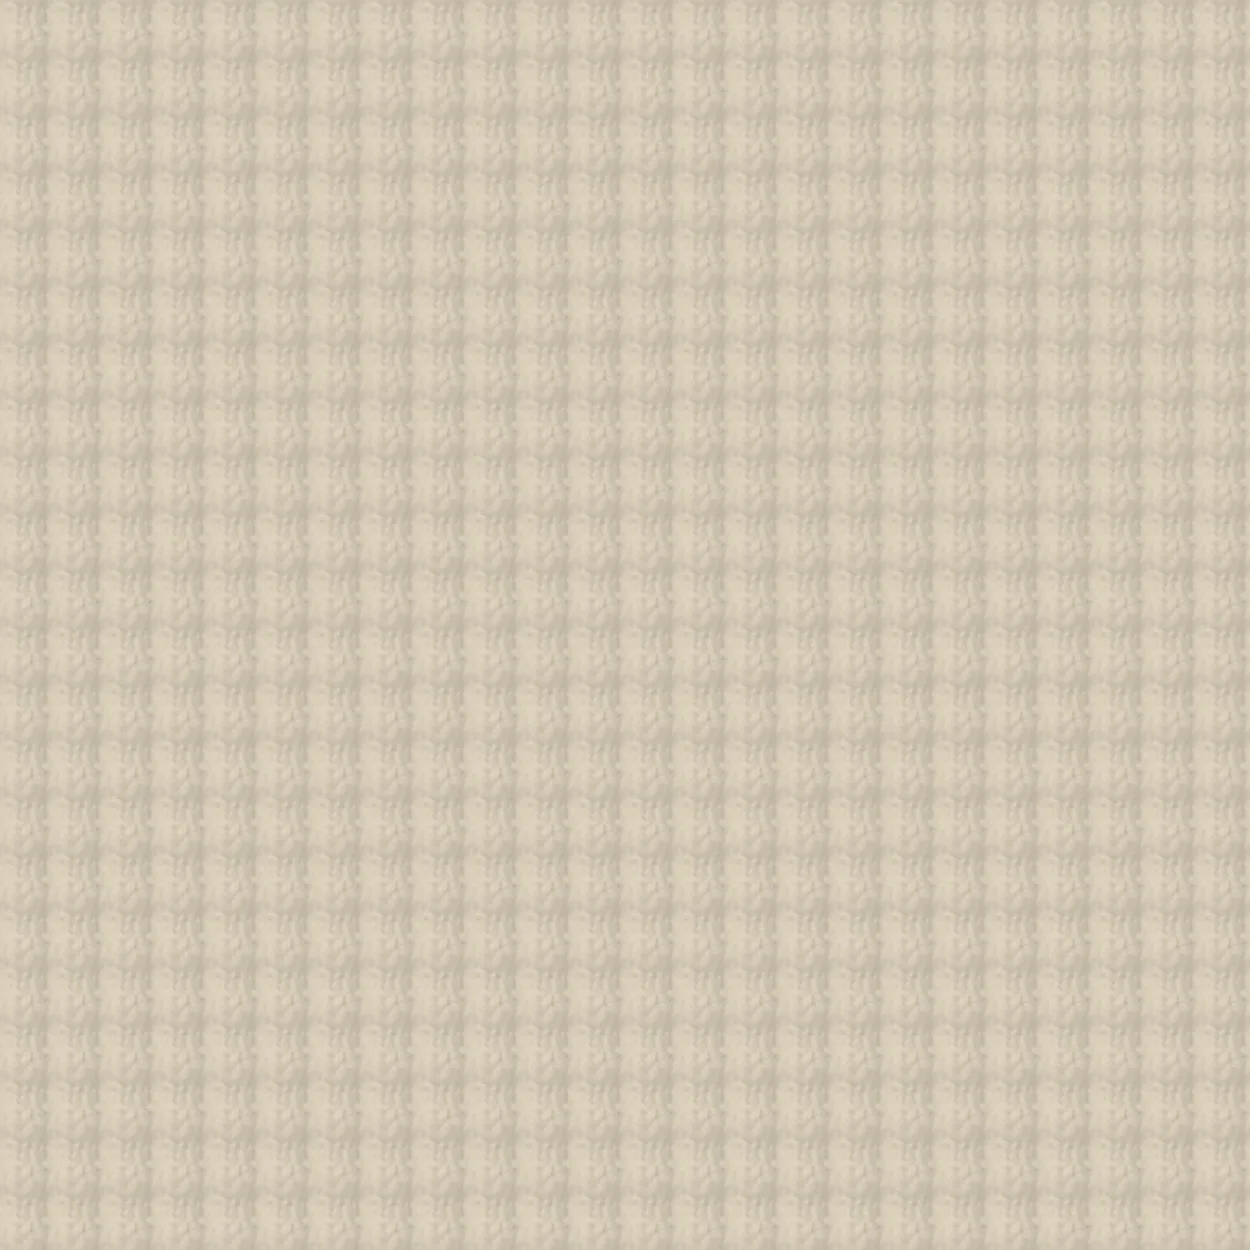
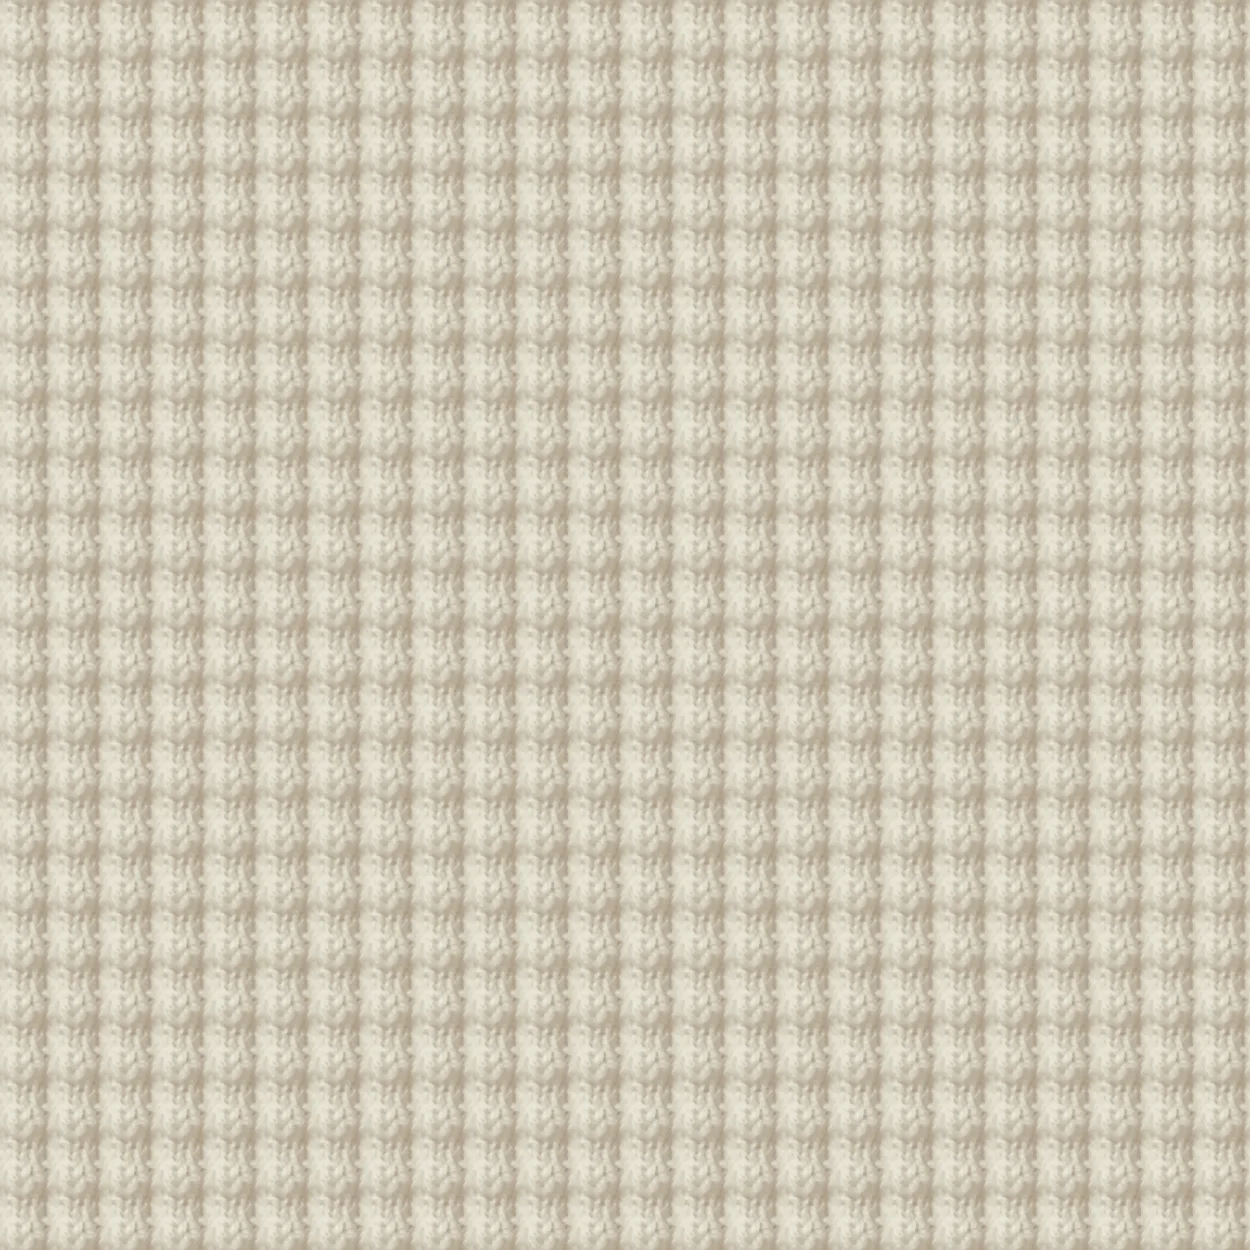
Little Love Lavande with lane-fitted knit; Codex Cream colourway

diff --git a/threadwork.js b/threadwork.js
@@ -61,10 +61,10 @@ SHADOW.innerHTML='<style>'+CSS+'</style>'+HTML;
       // Popcorn (baby + adult). Moon Stone has no photo yet and falls back to the Sawa knit by name.
       { name:'Pink Quartz', hex:'#e9a8b2', texture:ASSETS+'fabrics/popcorn-pink-quartz.webp', lift:0, pure:true, scale:.55, line:'popcorn' }, { name:'Henna', hex:'#c69778', texture:ASSETS+'fabrics/popcorn-henna.webp', lift:0, pure:true, scale:.55, line:'popcorn' },
       { name:'Sky Blue', hex:'#90a2bb', texture:ASSETS+'fabrics/popcorn-sky-blue.webp', lift:0, pure:true, scale:.55, line:'popcorn' }, { name:'Citron', hex:'#e7df96', texture:ASSETS+'fabrics/popcorn-citron.webp', lift:0, pure:true, scale:.55, line:'popcorn' },
-      { name:'Cream', hex:'#d1c7b2', texture:ASSETS+'fabrics/popcorn-cream.webp', lift:0, pure:true, scale:.55, line:'popcorn' }, { name:'Moon Stone', hex:'#aba8a7', aka:['Moonstone'], texture:ASSETS+'fabrics/popcorn-knit.webp', neutral:true, lift:-.35, marl:.2, scale:.45, line:'popcorn' },
+      { name:'Cream', hex:'#cec7b5', texture:ASSETS+'fabrics/popcorn-cream.webp', lift:0, pure:true, scale:.55, line:'popcorn' }, { name:'Moon Stone', hex:'#aba8a7', aka:['Moonstone'], texture:ASSETS+'fabrics/popcorn-knit.webp', neutral:true, lift:-.35, marl:.2, scale:.45, line:'popcorn' },
       // Little Love cashmere + the Cashmere Cloud gift sets (same knit). 'Peony Pink' is the gift set's name for Peony.
       { name:'Butter Cream', hex:'#b7a698', image:ASSETS+'fabrics/cashmere-butter-cream.jpg', texture:ASSETS+'fabrics/cashmere-butter-cream.jpg', photo:true, scale:.5, line:'cashmere' }, { name:'Cloud', hex:'#c6beb2', image:ASSETS+'fabrics/cashmere-cloud.jpg', texture:ASSETS+'fabrics/cashmere-cloud.jpg', photo:true, scale:.5, line:'cashmere' },
-      { name:'Hydrangea', hex:'#b2c0ca', image:ASSETS+'fabrics/cashmere-hydrangea.jpg', texture:ASSETS+'fabrics/cashmere-hydrangea.jpg', photo:true, scale:.5, line:'cashmere' }, { name:'Lavande', hex:'#d7bada', image:ASSETS+'fabrics/cashmere-lavande.jpg', texture:ASSETS+'fabrics/cashmere-lavande.jpg', photo:true, scale:.5, line:'cashmere' },
+      { name:'Hydrangea', hex:'#b2c0ca', image:ASSETS+'fabrics/cashmere-hydrangea.jpg', texture:ASSETS+'fabrics/cashmere-hydrangea.jpg', photo:true, scale:.5, line:'cashmere' }, { name:'Lavande', hex:'#d5b9d9', texture:ASSETS+'fabrics/littlelove-lavande.webp', pure:true, lift:0, lane:{pitch:208.333,centre:104.167}, scale:1, line:'cashmere' },
       { name:'Peony', aka:['Peony Pink'], hex:'#d7b5b0', image:ASSETS+'fabrics/cashmere-peony.webp', texture:ASSETS+'fabrics/cashmere-peony.webp', photo:true, scale:.5, line:'cashmere' },
       // Kid + Adult beanies (rib photos, placeholder).
       { name:'Charcoal', hex:'#4b4b54', image:ASSETS+'fabrics/beanie-charcoal.webp', texture:ASSETS+'fabrics/beanie-charcoal.webp', photo:true, crop:[0,.22,1,.56], scale:.3, line:'beanie' }, { name:'Chocolate', hex:'#552b20', image:ASSETS+'fabrics/beanie-chocolate.webp', texture:ASSETS+'fabrics/beanie-chocolate.webp', photo:true, crop:[0,.22,1,.56], scale:.3, line:'beanie' },
@@ -94,7 +94,7 @@ SHADOW.innerHTML='<style>'+CSS+'</style>'+HTML;
     // Centreline to centreline, since the chain has its own width (d, 2026-11-01: ink-to-ink left Pacifico
     // a little far apart and Petit's T and P touching).
     // Bump when any knit tile changes: the file name stays, the cache key does not.
-    const TEXTURE_VERSION='4';
+    const TEXTURE_VERSION='5';
     const INITIALS_GAP = 32;
     // The chain's own width in font units (measured on the canvas at the default weight) and the gap the
     // stitched strokes should keep in two dimensions: a hairline face needs more ink clearance than a fat one.
@@ -185,6 +185,7 @@ SHADOW.innerHTML='<style>'+CSS+'</style>'+HTML;
         }
       clothCtx.fillStyle=base;clothCtx.fillRect(0,0,W,H);
       if(fabric.photoCanvas){const p=fabric.photoCanvas,k=Math.max(W/p.width,H/p.height)*1.04,dw=p.width*k,dh=p.height*k;clothCtx.save();clothCtx.imageSmoothingEnabled=true;clothCtx.imageSmoothingQuality="high";clothCtx.filter="blur("+Math.max(1.5,W/700).toFixed(1)+"px)";clothCtx.drawImage(p,(W-dw)/2,(H-dh)/2,dw,dh);clothCtx.restore();}
+      else if(fabric.pattern&&fabric.lane){const box=letterBox(),s=Math.max(.5,Math.min(2,box.h*1.5/fabric.lane.pitch)),target=box.y-box.h*.05,ty=target-fabric.lane.centre*s;clothCtx.save();clothCtx.translate(0,ty);clothCtx.scale(s,s);clothCtx.fillStyle=fabric.pattern;clothCtx.fillRect(0,-ty/s-fabric.lane.pitch,W/s,H/s+fabric.lane.pitch*2);clothCtx.restore();}
       else if(fabric.pattern){clothCtx.save();clothCtx.scale(fabric.scale,fabric.scale);clothCtx.fillStyle=fabric.pattern;clothCtx.fillRect(0,0,W/fabric.scale,H/fabric.scale);clothCtx.restore();if(!fabric.pure){clothCtx.fillStyle=color(base,0,.12);clothCtx.fillRect(0,0,W,H);}}
       else{clothCtx.save();clothCtx.translate(W/2,H/2);clothCtx.rotate(-.047);clothCtx.scale(1.12,1.12);clothCtx.fillStyle=clothCtx.createPattern(tile,'repeat');clothCtx.fillRect(-W,-H,W*2,H*2);clothCtx.restore();}
       let g=null;if(!fabric.pure){g=clothCtx.createLinearGradient(0,0,W,H);g.addColorStop(0,'#fffcdf28');g.addColorStop(.35,'#ffffff10');g.addColorStop(.72,'#1d17200b');g.addColorStop(1,'#2716221f');clothCtx.fillStyle=g;clothCtx.fillRect(0,0,W,H);}
@@ -954,7 +955,9 @@ SHADOW.innerHTML='<style>'+CSS+'</style>'+HTML;
     });
     // Resetting the width wipes the bitmap outright; Safari can leave stale
     // patches of a shadowed canvas behind after a plain clearRect.
-    function renderArtwork(){artwork.width=W;art.drawImage(cloth,0,0);if(state.guide)drawFontGuide();drawEmbroidery();drawView();}
+    // Lane fabrics (Little Love hearts) scale the knit with the lettering and sit the name inside a lane.
+    function letterBox(){const y=letterY();if(!geometry)return{y,h:180*.75};const s=Math.min(980/Math.max(geometry.width,360),410/Math.max(geometry.height,90),2.1);return{y,h:Math.max(60,geometry.height*s)};}
+    function renderArtwork(){if(fabrics[state.fabric].lane)drawCloth();artwork.width=W;art.drawImage(cloth,0,0);if(state.guide)drawFontGuide();drawEmbroidery();drawView();}
     function requestRender(){if(!ready)return;cancelAnimationFrame(raf);raf=requestAnimationFrame(renderArtwork);}
     // Reading a pixel back makes Safari finish the artwork before it is
     // copied; otherwise it can composite from a stale copy of the canvas.
